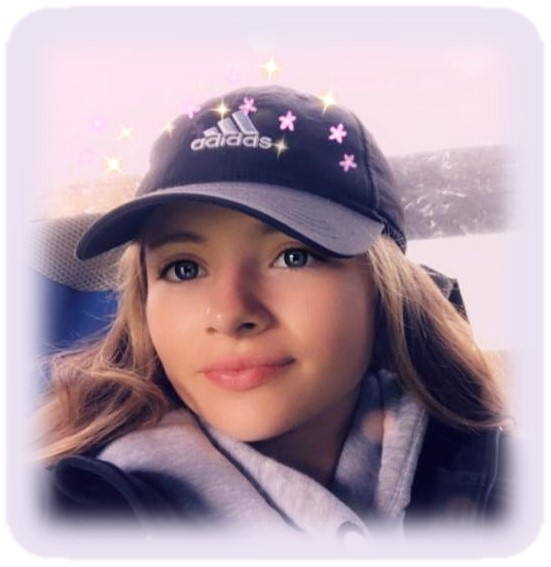
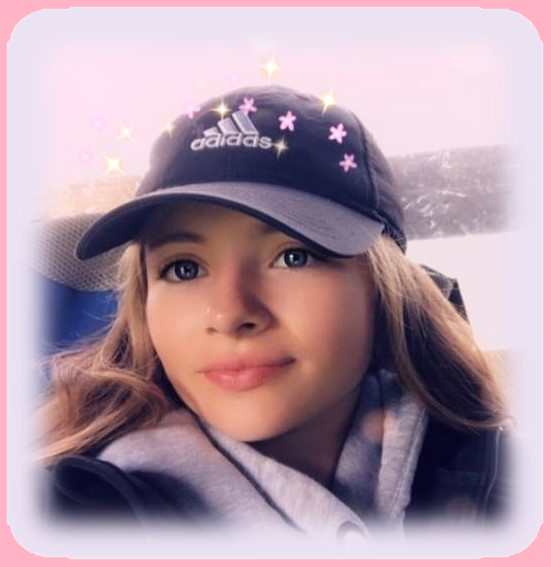
Updated background colours

Changed region(s): [[0.0, 0.0, 1.0, 1.0]]

diff --git a/Assets/css/main.css b/Assets/css/main.css
@@ -5,3 +5,16 @@
     max-width: fit-content;
     margin-inline: auto;
   }
+
+  body {
+    background-color: #FFB3C5;
+}
+
+/* Override Bootstrap's bg-light for the navbar */
+.navbar.bg-light {
+  background-color: #FAAEC0 !important;
+}
+
+.card.bg-light{
+  background-color: #FAAEC0 !important;
+}
